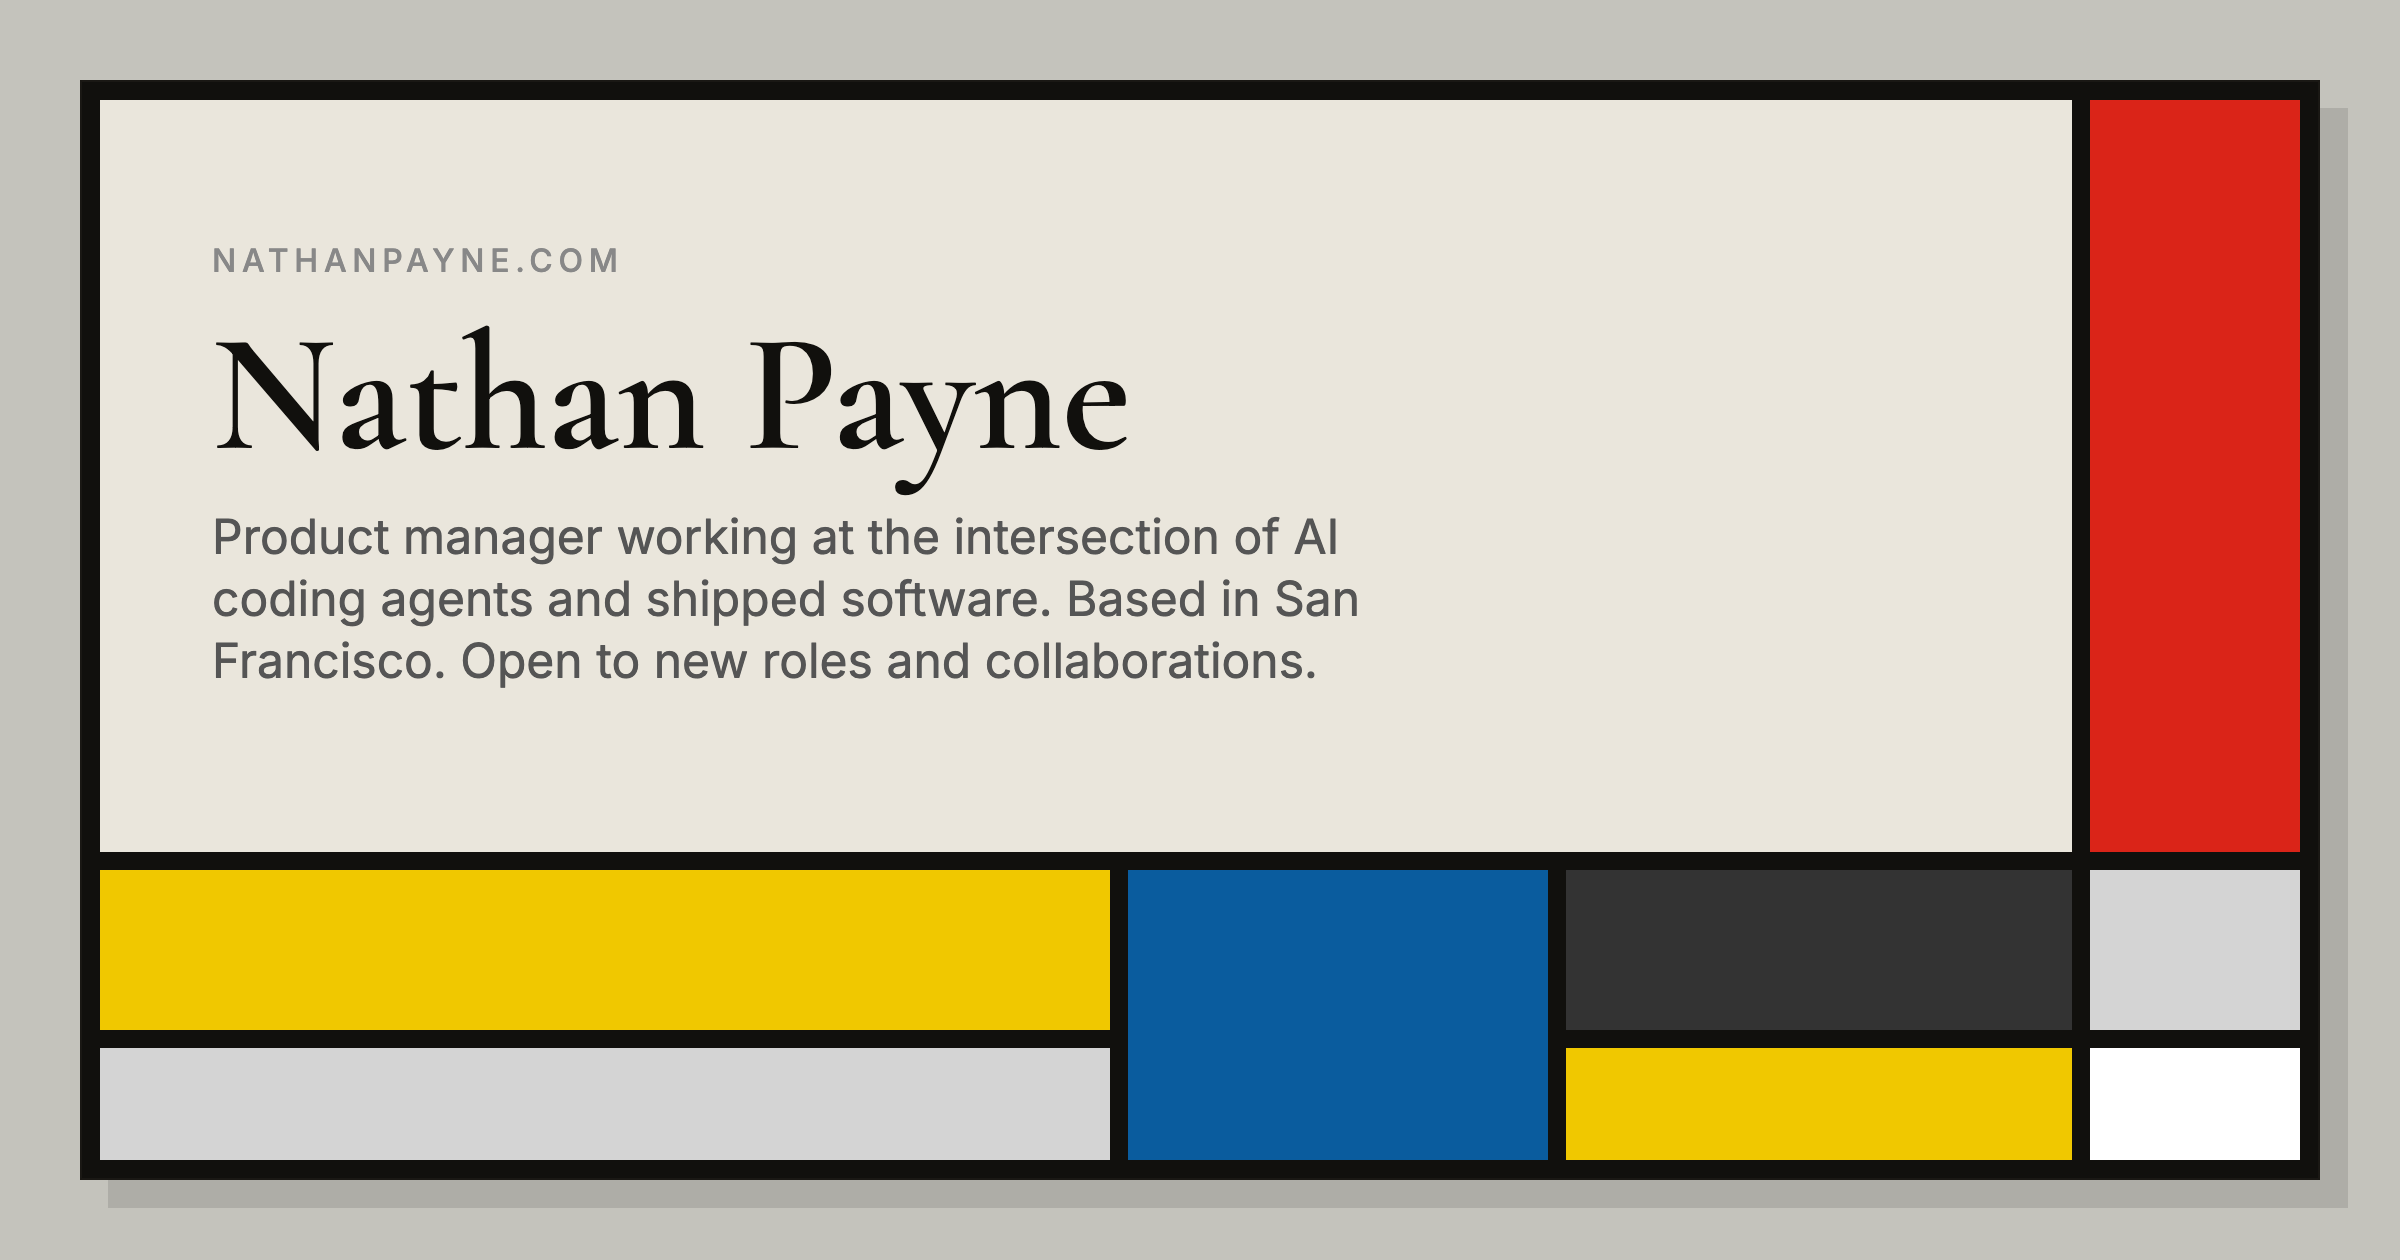
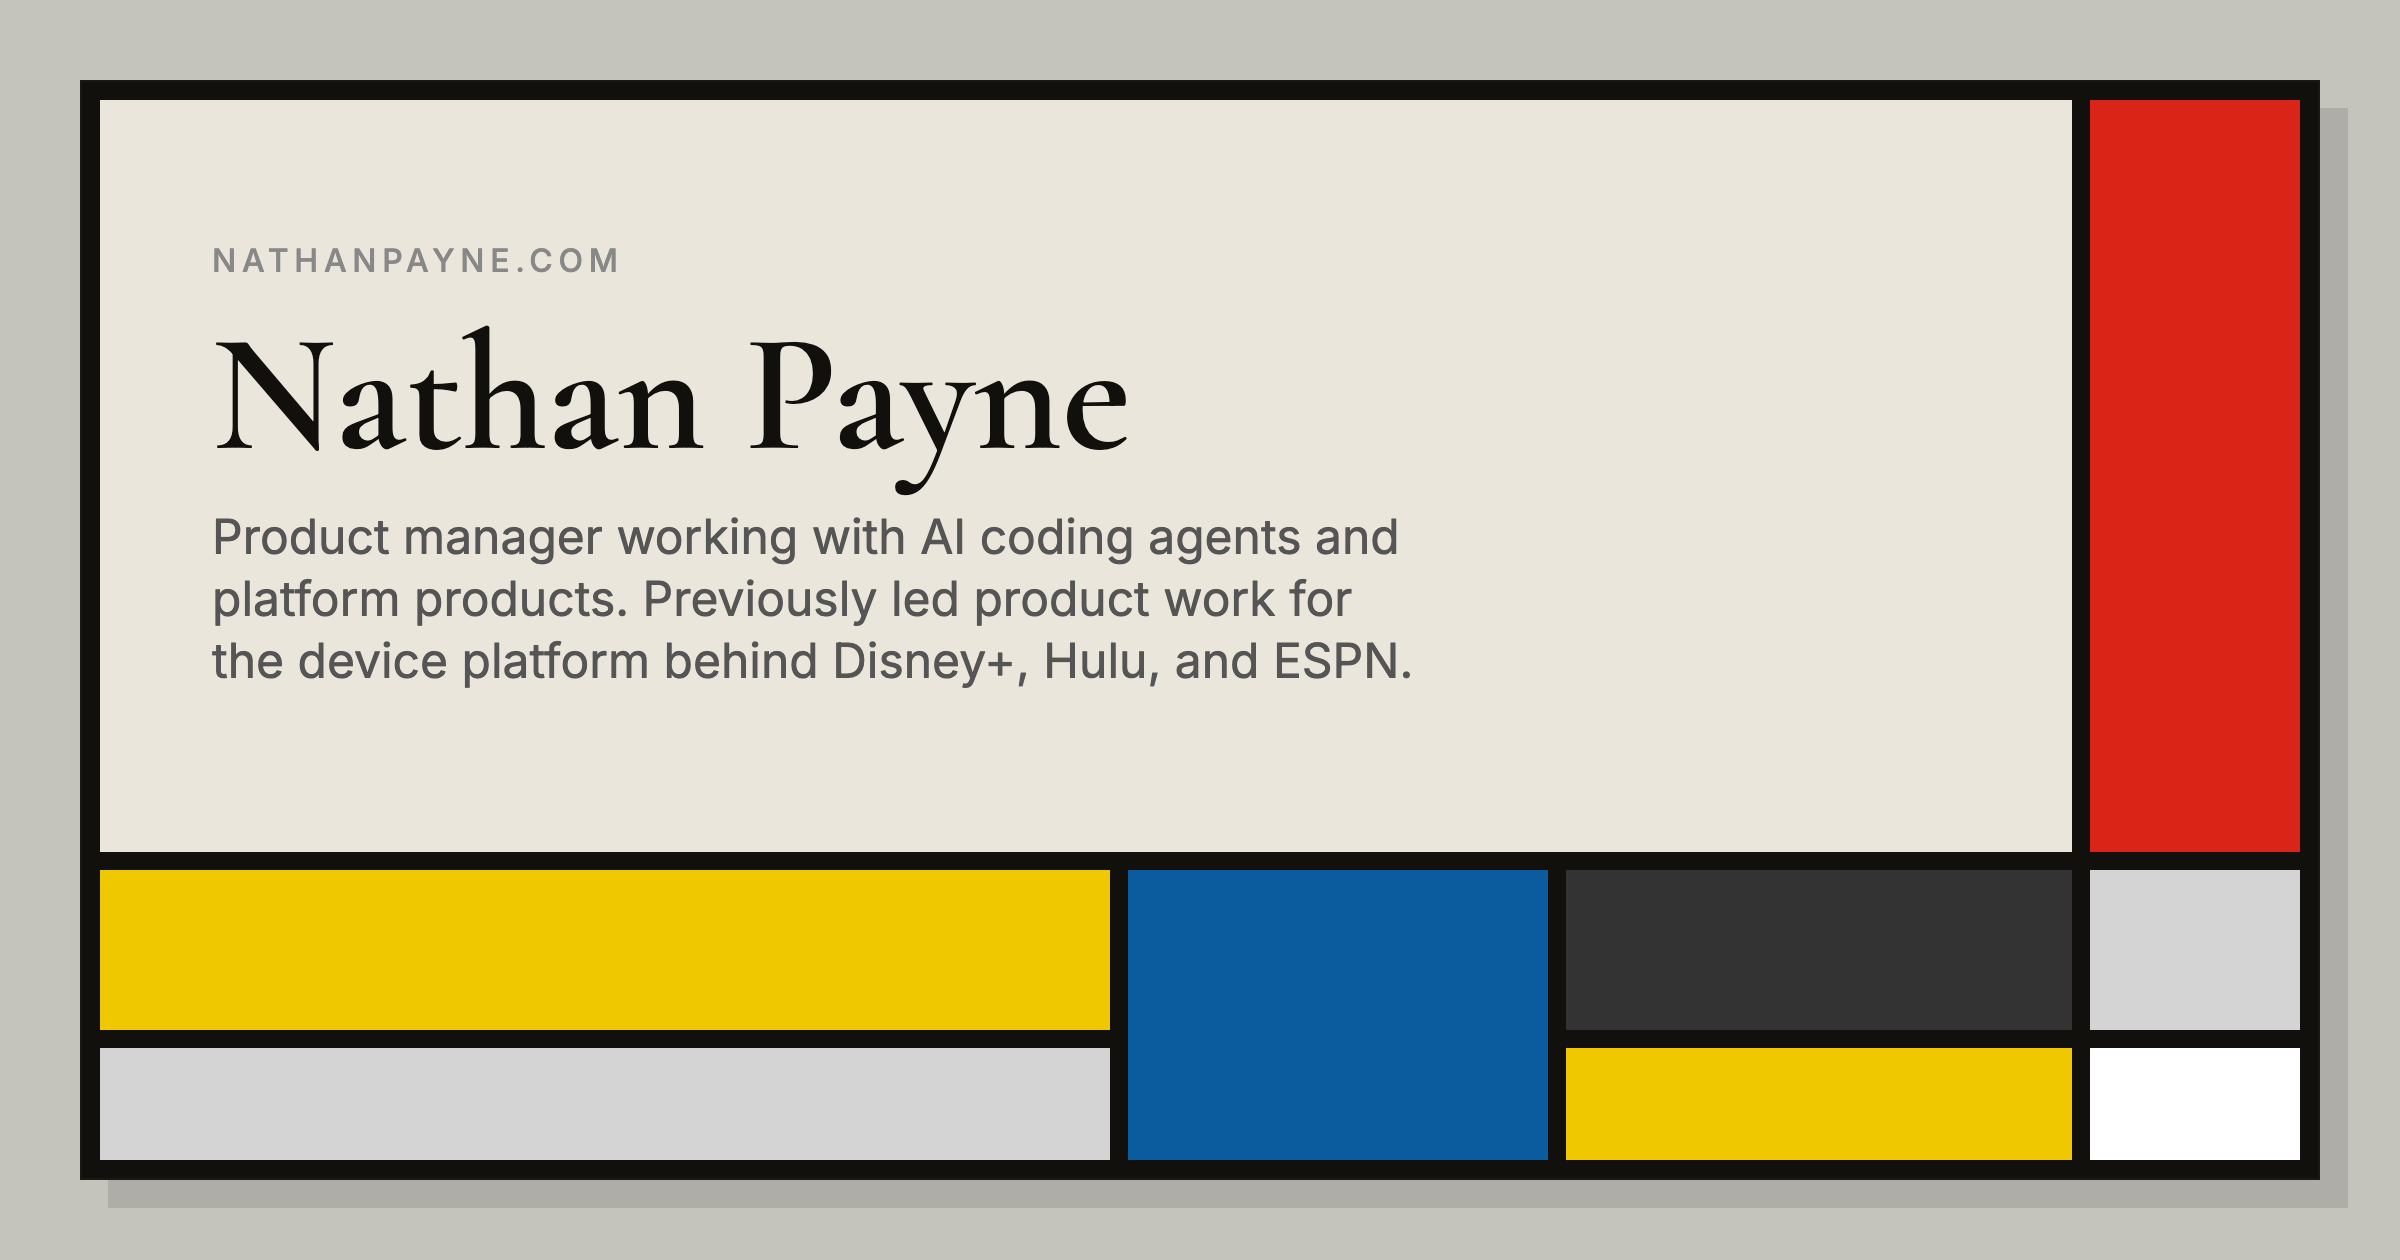
content(969,970): one availability statement on the home page, a byline under blog posts (#971)
* content(969,970): one availability statement on the home page, a byline under blog posts

Availability had accumulated onto four surfaces. #969 keeps two—the résumé,
and one statement on the home page—and spends the other two on what the work
actually is.

- Connect drops "Open to new roles and collaborations." The NOW paragraph
  keeps the only "Open to…" on the page, where it names the kind of role and
  so reads as criteria rather than a notice.
- The home description (meta, OG/Twitter, and the WebSite / ProfilePage
  JSON-LD) says what the work is instead. Search snippets and link previews
  have almost no copy budget, and availability is weak information there.
  The OG card re-renders from the same string; screenshots/og/home.png is
  refreshed to match, and only that one, since the mirror script rewrites all
  eighteen unconditionally.
- The end-of-post block becomes an author footer: a byline, aria-label
  "About the author", links and mailto assembly unchanged. An availability
  line directly after an essay reframes the author from someone with
  something to say into someone looking for work.

#970 puts the home Context paragraph in the past tense, so the page agrees
with its own snippet ("Previously led") and with the résumé's 2021–2026
dating. The NOW paragraph stays present tense; it is about current work.

tests/availability-signal.test.js guards the count, not the copy. The
regression here is correct copy appearing a second time, which reads fine in
[…]

Changed region(s): [[0.0938, 0.4024, 0.5938, 0.5571]]

diff --git a/tests/availability-signal.test.js b/tests/availability-signal.test.js
@@ -1,0 +1,109 @@
+import { describe, it, expect } from 'vitest';
+import { readBuiltPage, writeSanitizedDOM } from './helpers/dom.js';
+
+/**
+ * Where availability is allowed to be stated (#969).
+ *
+ * Availability is a site-level fact, and it had accumulated onto four
+ * surfaces: the NOW paragraph, the Connect line, the home page's metadata,
+ * and the end of every blog post. #969 kept two of them — the résumé, and
+ * one statement on the home page — on the grounds that the other two spend
+ * scarce copy budget saying something the reader can get once.
+ *
+ * The invariant this file guards is a COUNT, not a string. A regression here
+ * does not look like wrong copy; it looks like correct copy appearing a
+ * second time, which reads fine in a diff and only shows up when the page is
+ * read end to end. So the home page assertion counts occurrences and pins
+ * where the surviving one lives, rather than asserting the NOW sentence is
+ * present — a page carrying both would satisfy that weaker check.
+ *
+ * Each "should not be here" assertion is paired with a positive on the same
+ * search: the home page count must be exactly 1 and the résumé assertions
+ * must find their statements. A zero-hit search that is broken and a
+ * zero-hit search that is correct are otherwise the same result.
+ *
+ * The blog post footer is covered in tests/blog-takeaways-cta.test.js, next
+ * to that block's other contracts.
+ */
+
+/** Every occurrence of an "Open to…" availability statement in `text`. */
+function availabilityStatements(text) {
+  return text.match(/Open to\s/g) ?? [];
+}
+
+const HOME_DESCRIPTION =
+  'Product manager working with AI coding agents and platform products. ' +
+  'Previously led product work for the device platform behind Disney+, Hulu, and ESPN.';
+
+describe('home page availability signal (#969)', () => {
+  it('states availability exactly once, in the NOW paragraph', () => {
+    writeSanitizedDOM(readBuiltPage('index.html'));
+    const main = document.querySelector('main');
+    expect(main, 'no <main> on the built homepage').not.toBeNull();
+
+    const found = availabilityStatements(main.textContent);
+    expect(
+      found.length,
+      `expected one "Open to…" statement on the home page, found ${found.length}. ` +
+        'Two of them is the #969 regression: NOW names the kind of role, and ' +
+        'a second one restates it with less.',
+    ).toBe(1);
+
+    const now = document.querySelector('.about-block--now');
+    expect(now, 'no .about-block--now on the built homepage').not.toBeNull();
+    expect(
+      availabilityStatements(now.textContent).length,
+      'the surviving statement is not the NOW one',
+    ).toBe(1);
+  });
+
+  it('leaves the Connect line as contact affordances only', () => {
+    writeSanitizedDOM(readBuiltPage('index.html'));
+    const signal = document.querySelector('.availability-signal');
+    expect(signal, '.availability-signal missing from the built homepage').not.toBeNull();
+    expect(
+      availabilityStatements(signal.textContent).length,
+      'the Connect line restated availability above its links',
+    ).toBe(0);
+  });
+
+  it('describes the work, not the job search, in every metadata surface', () => {
+    writeSanitizedDOM(readBuiltPage('index.html'));
+
+    for (const selector of [
+      'meta[name="description"]',
+      'meta[property="og:description"]',
+      'meta[name="twitter:description"]',
+    ]) {
+      const tag = document.querySelector(selector);
+      expect(tag, `${selector} missing from the built homepage`).not.toBeNull();
+      expect(tag.getAttribute('content'), selector).toBe(HOME_DESCRIPTION);
+    }
+
+    const graph = JSON.parse(
+      document.querySelector('script[type="application/ld+json"]').textContent,
+    )['@graph'];
+    for (const type of ['WebSite', 'ProfilePage']) {
+      const entity = graph.find((node) => node['@type'] === type);
+      expect(entity, `no ${type} entity in the homepage JSON-LD`).toBeDefined();
+      expect(entity.description, `${type} description`).toBe(HOME_DESCRIPTION);
+    }
+  });
+});
+
+describe('résumé availability is untouched by the trim (#969)', () => {
+  it('keeps the Availability row and the end-of-page CTA lede', () => {
+    writeSanitizedDOM(readBuiltPage('resume/index.html'));
+
+    const rows = [...document.querySelectorAll('dt')];
+    const availability = rows.find((dt) => dt.textContent.trim() === 'Availability');
+    expect(availability, 'the résumé lost its Availability row').toBeDefined();
+    expect(availabilityStatements(availability.nextElementSibling.textContent).length).toBe(1);
+
+    const lede = document.querySelector('.resume-cta__lede');
+    expect(lede, 'the résumé lost its end-of-page CTA lede').not.toBeNull();
+    expect(lede.textContent.replace(/\s+/g, ' ').trim()).toBe(
+      'Open to senior product/platform roles.',
+    );
+  });
+});

diff --git a/tests/blog-takeaways-cta.test.js b/tests/blog-takeaways-cta.test.js
@@ -7,7 +7,13 @@
  *      post cannot ship without one.
  *   2. Every post ends on prev/next navigation computed from the collection
  *      in date order — omitting the missing side at the ends rather than
- *      wrapping — plus a single availability CTA with distinct PostHog events.
+ *      wrapping — plus a single author footer with distinct PostHog events.
+ *
+ * The footer's lede was an availability statement until #969; the assertions
+ * below pin the byline that replaced it and the aria-label that names the
+ * block, and they check the old lede is gone rather than only checking the
+ * new one is present — a block carrying both would satisfy a present-only
+ * assertion and would be the exact regression #969 exists to prevent.
  */
 import { describe, it, expect } from 'vitest';
 import { readFileSync } from 'fs';
@@ -179,14 +185,23 @@ describe('Blog end-of-post block (#622)', () => {
     }
   });
 
-  it('renders one availability CTA per post with resume, email, and scheduling affordances', () => {
+  it('renders one author footer per post with a byline, resume, email, and scheduling affordances', () => {
     for (const post of builtPosts) {
       setupDOM(post.html);
       const ctas = document.querySelectorAll('.blog-cta');
-      expect(ctas.length, `${post.slug}: expected exactly one CTA`).toBe(1);
+      expect(ctas.length, `${post.slug}: expected exactly one footer`).toBe(1);
 
       const cta = ctas[0];
-      expect(cta.textContent).toContain('Open to senior product/platform roles');
+      expect(cta.getAttribute('aria-label'), `${post.slug}: footer aria-label`).toBe(
+        'About the author',
+      );
+      expect(cta.querySelector('.blog-cta__lede')?.textContent.replace(/\s+/g, ' ').trim()).toBe(
+        'Nathan Payne is a product manager writing about AI, software, and product development.',
+      );
+      expect(
+        cta.textContent,
+        `${post.slug}: the availability lede came back — #969 moved it off the post footer`,
+      ).not.toContain('Open to senior product/platform roles');
       expect(cta.querySelector('a[href="/resume/"][data-cta="resume"]')).not.toBeNull();
       expect(
         cta.querySelector('a[href="https://cal.com/nathanpayne"][data-cta="schedule"]'),
@@ -195,6 +210,47 @@ describe('Blog end-of-post block (#622)', () => {
 
       // The address is assembled client-side; it must not ship in the HTML.
       expect(post.html).not.toContain('hire@nathanpayne.com');
+    }
+  });
+
+  it('holds every post to the one author the footer names', () => {
+    // The footer's byline is a literal, and so are the résumé and contact
+    // links beside it. Before #969 the block claimed no authorship at all,
+    // so a guest post cost nothing; now it names Nathan under an
+    // aria-label that says "About the author". The assumption is only safe
+    // while it is true, and nothing about a guest post would fail on its
+    // own — the page would simply attribute someone else's essay to Nathan
+    // and point the reader at Nathan's résumé.
+    //
+    // Templating the name out of `author` is not the fix and this test is
+    // not asking for it: the rest of the sentence and all three links are
+    // Nathan's, so a guest would get their own name over someone else's
+    // bio. A real guest post needs the block designed. This fails first and
+    // says so.
+    const DEFAULT_AUTHOR = 'Nathan Payne';
+
+    // The schema default covers posts that omit the field, so it is half of
+    // the invariant, not context. Matched rather than searched-for, so a
+    // renamed field fails here instead of silently checking nothing.
+    const declared = configSource.match(/author:\s*z\.string\(\)\.default\('([^']*)'\)/);
+    expect(
+      declared,
+      'no `author` default found in src/content.config.ts — did the field move?',
+    ).not.toBeNull();
+    expect(declared[1], 'the schema default no longer matches the byline in BlogPost.astro').toBe(
+      DEFAULT_AUTHOR,
+    );
+
+    for (const post of sourcePosts) {
+      const author = scalar(post.raw, 'author');
+      // Absent is fine: Zod supplies the default asserted above.
+      if (author === undefined) continue;
+      expect(
+        author.replace(/^["']|["']$/g, ''),
+        `${post.slug}: authored by someone the end-of-post byline does not name. ` +
+          "The footer, its résumé link, and its contact links are all Nathan's — " +
+          'design the block for a second author rather than relaxing this.',
+      ).toBe(DEFAULT_AUTHOR);
     }
   });
 

diff --git a/src/styles/global.css b/src/styles/global.css
@@ -4428,7 +4428,7 @@ svg.mermaid foreignObject p {
 }
 
 /* ── End-of-post block (#622) ───────────────────────────────────────
-   Prev/next navigation + the availability CTA, separated from the post's
+   Prev/next navigation + the author footer, separated from the post's
    closing line by a rule so the ending keeps its beat. Screen only —
    hidden in the blog print rules below.
    ────────────────────────────────────────────────────────────────── */
@@ -4542,9 +4542,9 @@ svg.mermaid foreignObject p {
 }
 
 /* ── Blog post — print ──────────────────────────────────────────────
-   The end-of-post block is navigation and a CTA: neither survives paper,
-   so it is dropped. The takeaways are content, so they print — as black
-   on white, kept whole on one page. (#621, #622)
+   The end-of-post block is navigation and the author footer: neither
+   survives paper, so it is dropped. The takeaways are content, so they
+   print — as black on white, kept whole on one page. (#621, #622)
    ────────────────────────────────────────────────────────────────── */
 @media print {
   .blog-postscript {

diff --git a/specs/resume.md b/specs/resume.md
@@ -95,11 +95,15 @@ The `resumeProjects` collection must remain separate from the existing
   flush with those dividers at both ends, so the card reads as closing the
   page rather than hanging off the essay list. It must be a pseudo-element:
   the card's own `border` draws its box, so a `border-top` would thicken that
-  edge instead of ruling off the space above it. It mirrors
-  the end-of-post block in `src/layouts/BlogPost.astro` (`.blog-cta`, #622)
+  edge instead of ruling off the space above it. It takes its shape from the
+  end-of-post block in `src/layouts/BlogPost.astro` (`.blog-cta`, #622)
   **minus that block's Résumé link**, since the reader is already on the
-  résumé. It is a sibling of the sections, not a section: no `id`, no ToC
-  entry, and it is screen-only. The parallel `.resume-cta` namespace is
+  résumé. The two ledes diverged in #969: the blog block now carries a
+  byline, because an availability line directly after an essay reframes the
+  author from someone with something to say into someone looking for work.
+  On the résumé the reader came for exactly that fact, so the lede stays. It
+  is a sibling of the sections, not a section: no `id`, no ToC entry, and it
+  is screen-only. The parallel `.resume-cta` namespace is
   deliberate—see *Styling* below; the resume must not move when the blog
   layout does.
 - **Projects and Writing share one section grammar** (#947), and it is the reason both open the way they do:
